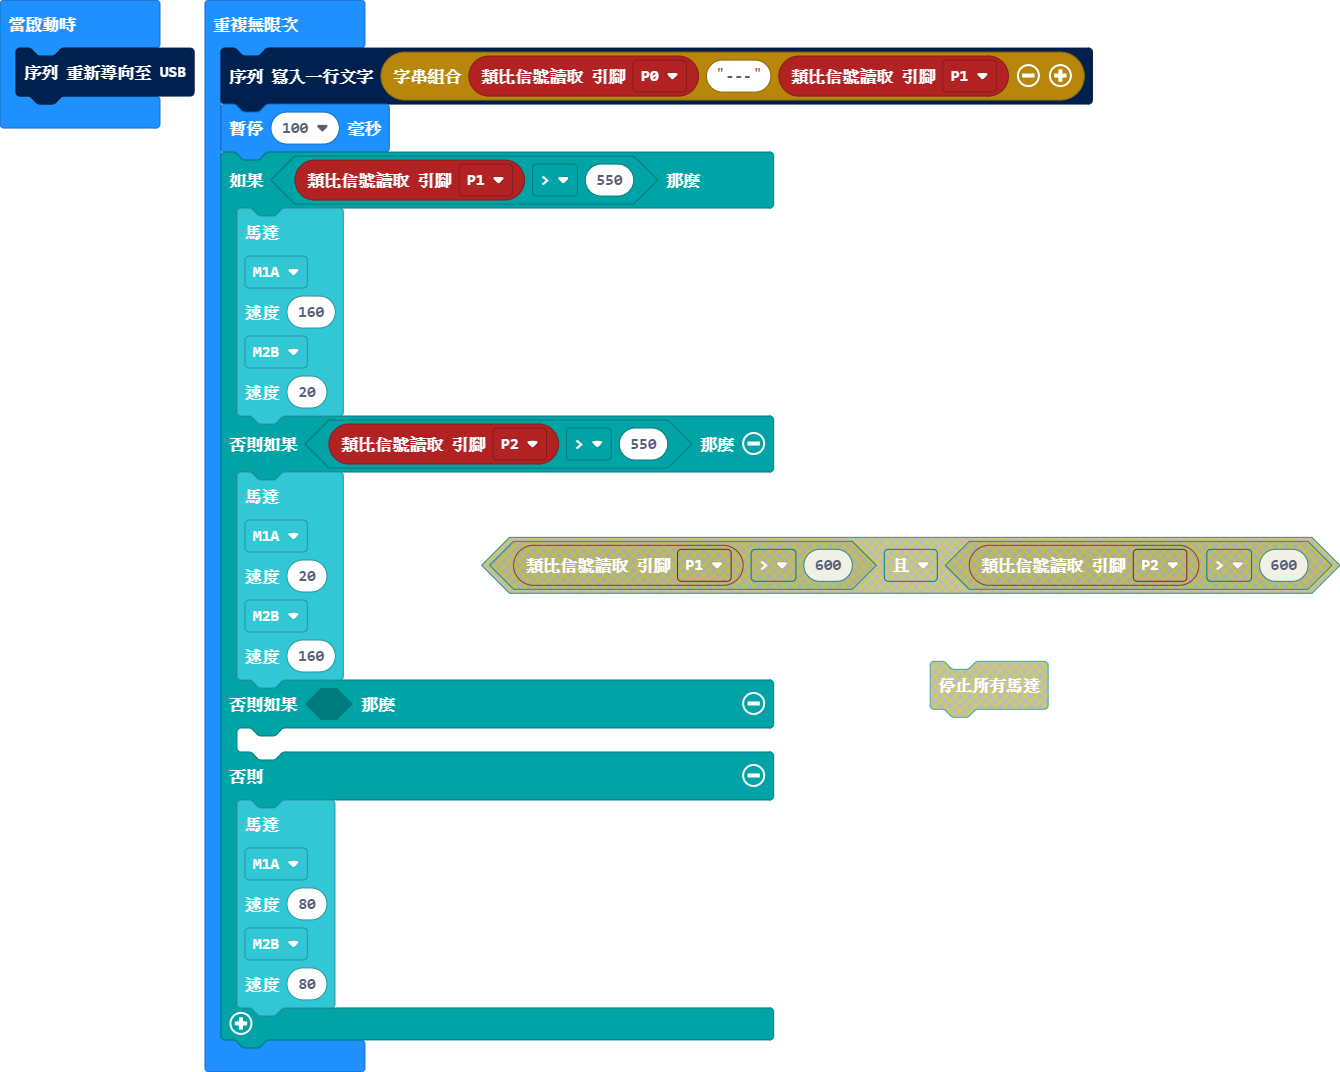
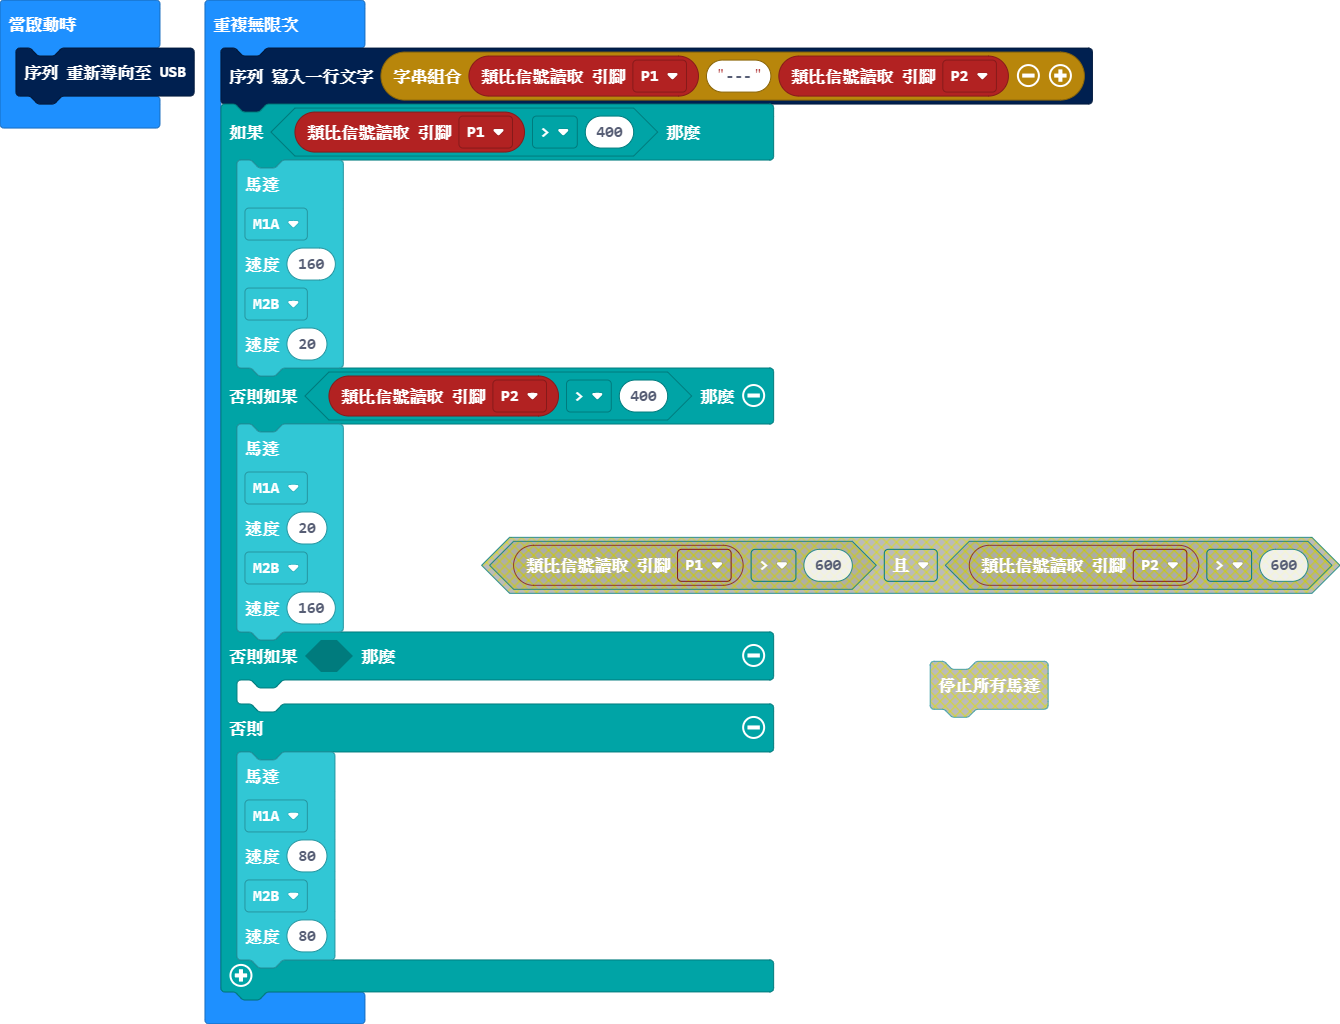
Update main.blocks, main.ts

Changed region(s): [[0.0, 0.0, 1.0, 0.9688]]

diff --git a/main.ts b/main.ts
@@ -1,15 +1,14 @@
 serial.redirectToUSB()
 basic.forever(function () {
-    serial.writeLine("" + pins.analogReadPin(AnalogPin.P0) + "---" + pins.analogReadPin(AnalogPin.P1))
-    basic.pause(100)
-    if (pins.analogReadPin(AnalogPin.P1) > 550) {
+    serial.writeLine("" + pins.analogReadPin(AnalogPin.P1) + "---" + pins.analogReadPin(AnalogPin.P2))
+    if (pins.analogReadPin(AnalogPin.P1) > 400) {
         robotbit.MotorRunDual(
         robotbit.Motors.M1A,
         160,
         robotbit.Motors.M2B,
         20
         )
-    } else if (pins.analogReadPin(AnalogPin.P2) > 550) {
+    } else if (pins.analogReadPin(AnalogPin.P2) > 400) {
         robotbit.MotorRunDual(
         robotbit.Motors.M1A,
         20,
